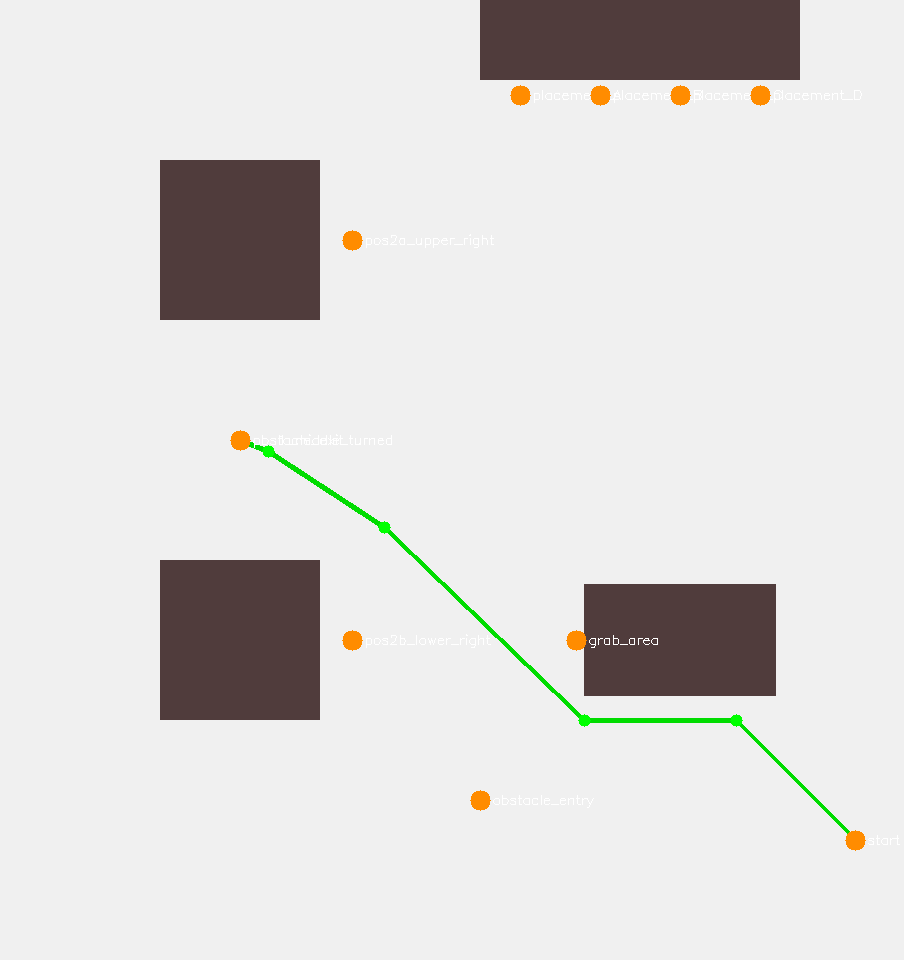
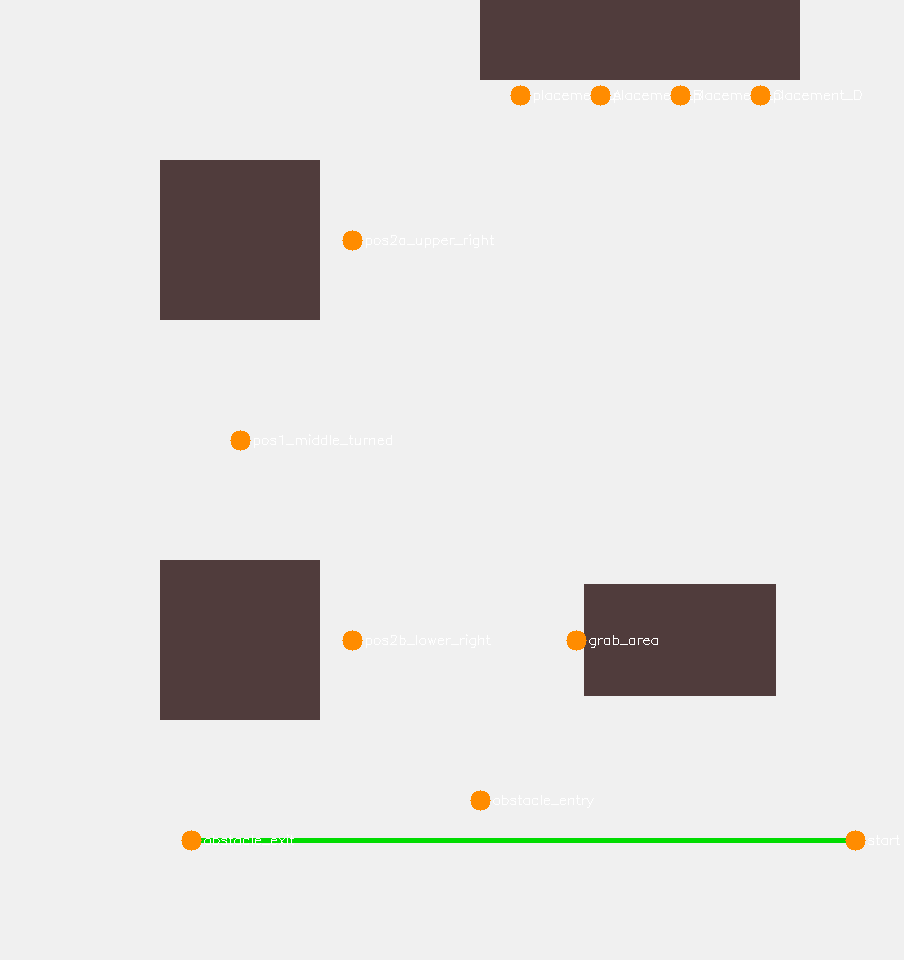
fix: correct obstacle_exit waypoint to (1200, 5250)mm — same y-level as start, left edge of obstacle zone

diff --git a/src/navigation/navigator.py b/src/navigation/navigator.py
@@ -59,8 +59,8 @@ _RAW_WAYPOINTS: Dict[str, Dict[str, Any]] = {
     "placement_B":          {"x_mm": 3750, "y_mm": 600,  "yaw_deg": 0,   "label": "B放置区"},
     "placement_C":          {"x_mm": 4250, "y_mm": 600,  "yaw_deg": 0,   "label": "C放置区"},
     "placement_D":          {"x_mm": 4750, "y_mm": 600,  "yaw_deg": 0,   "label": "D放置区"},
-    "obstacle_entry":       {"x_mm": 3000, "y_mm": 5000, "yaw_deg": 180, "label": "障碍区入口"},
-    "obstacle_exit":        {"x_mm": 1500, "y_mm": 2750, "yaw_deg": -90, "label": "障碍区出口"},
+    "obstacle_entry":       {"x_mm": 3000, "y_mm": 5000, "yaw_deg": 180, "label": "障碍区入口(右侧)"},
+    "obstacle_exit":        {"x_mm": 1200, "y_mm": 5250, "yaw_deg": 180, "label": "障碍区出口(左侧)"},
 }
 
 # Convert waypoints to ROS coordinates

diff --git a/navi/map/visualize_astar.py b/navi/map/visualize_astar.py
@@ -18,7 +18,7 @@ import numpy as np
 _WAYPOINTS_MM = {
     "start":              (5350, 5250),
     "obstacle_entry":     (3000, 5000),
-    "obstacle_exit":      (1500, 2750),
+    "obstacle_exit":      (1200, 5250),
     "pos1_middle":        (1500, 2750),
     "pos1_middle_turned": (1500, 2750),
     "pos2a_upper_right":  (2200, 1500),
